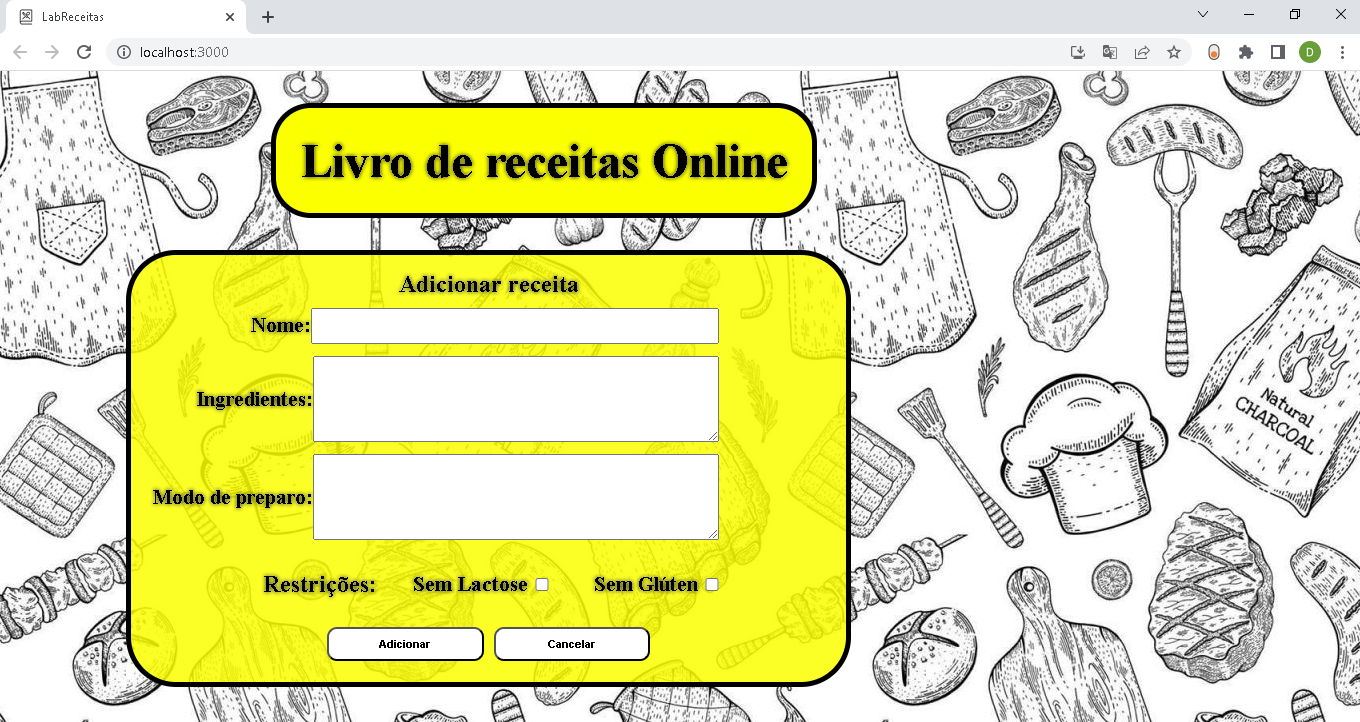
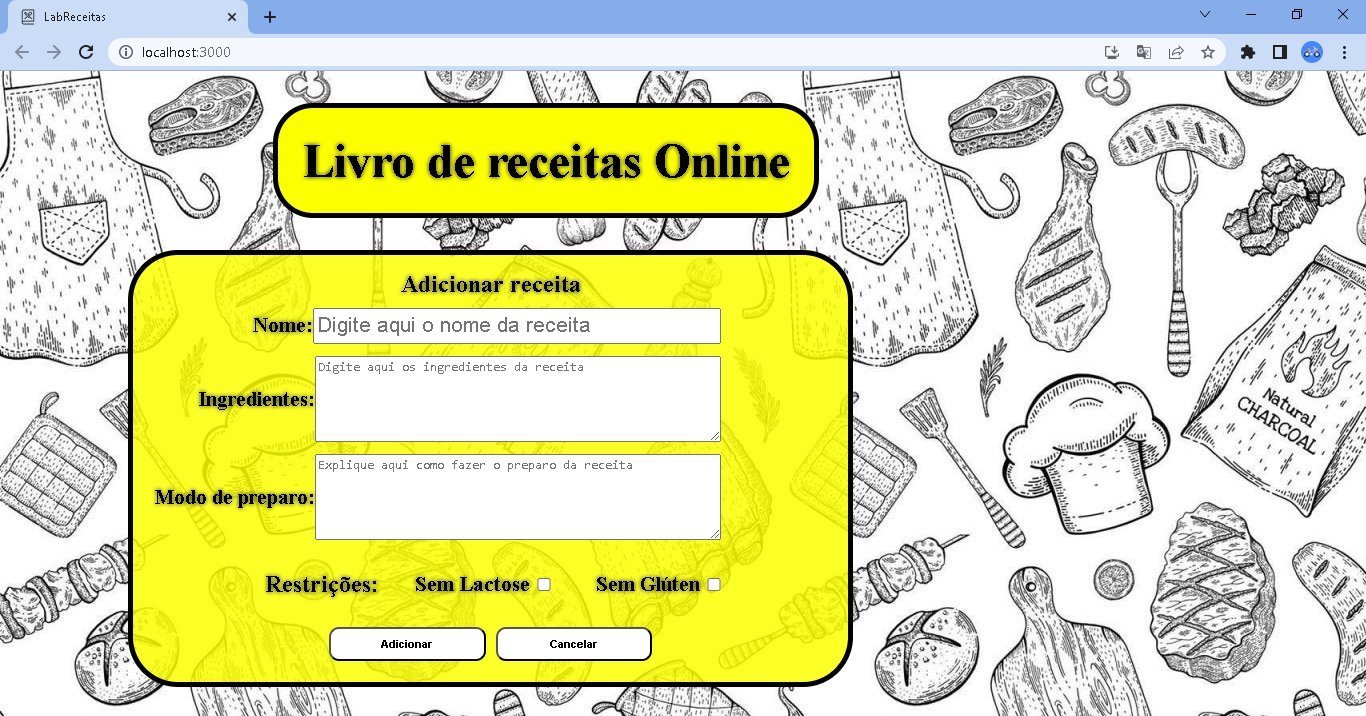
Adicionado placeholder

diff --git a/src/components/Formulario/formulario.js b/src/components/Formulario/formulario.js
@@ -8,10 +8,9 @@ const Formulario = props => {
     const [receitaParaAlterar, setReceitaParaAlterar] = useState();
 
     useEffect(() => {
-        const receitaParaAlterar = JSON.parse(localStorage.getItem('receitaSelecionada'));
+        const receitaParaAlterar = JSON.parse(localStorage.getItem('receitaSelecionada'));        
         const data = localStorage.getItem('receita') ? JSON.parse(localStorage.getItem('receita')) : [];
         setForm(data);
-
         if (receitaParaAlterar) {
             setReceita(receitaParaAlterar);
             setReceitaParaAlterar(receitaParaAlterar);
@@ -75,6 +74,7 @@ const Formulario = props => {
             const receitaIndex = form.findIndex(receita => JSON.stringify(receita) === JSON.stringify(receitaParaexcluir));
             form.splice(receitaIndex, 1);
             localStorage.setItem('receita', JSON.stringify(form));
+
             localStorage.removeItem('receitaSelecionada');
             props.updateAberto(false);
             props.handleFiltro(form);
@@ -91,19 +91,19 @@ const Formulario = props => {
                 <div >
                     <label className="nomeForm">
                         Nome:
-                        <input className="input" type="text" name="nome" onChange={e => handleChange(e)} value={receita.nome} required />
+                        <input className="input" type="text" name="nome" onChange={e => handleChange(e)} value={receita.nome} required placeholder="Digite aqui o nome da receita"/>
                     </label>
                 </div>
                 <div >
                     <label className="nomeForm">
                         Ingredientes:
-                        <textarea className="textArea" name="ingredientes" onChange={e => handleChange(e)} value={receita.ingredientes} required/>                        
+                        <textarea className="textArea" name="ingredientes" onChange={e => handleChange(e)} value={receita.ingredientes} required placeholder="Digite aqui os ingredientes da receita"/>                        
                     </label>
                 </div>
                 <div >
                     <label className="nomeForm">
                         Modo de preparo:
-                        <textarea className="textArea" name="preparo" onChange={e => handleChange(e)} value={receita.preparo} required/>                       
+                        <textarea className="textArea" name="preparo" onChange={e => handleChange(e)} value={receita.preparo} required placeholder="Explique aqui como fazer o preparo da receita"/>                       
                     </label>
                 </div>
                 <div className="restricoes">
